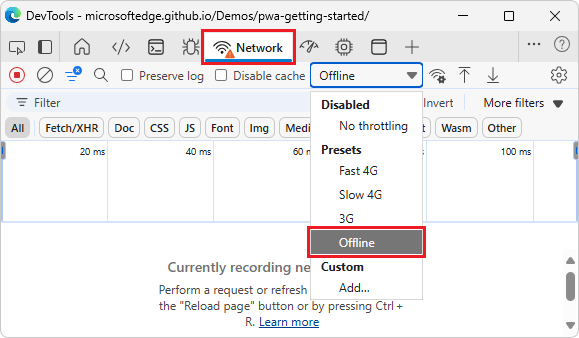
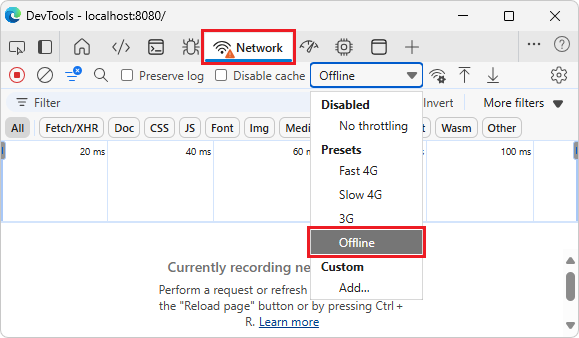
test/polish pass 3, thru Step 11

Changed region(s): [[0.1554, 0.0296, 0.6528, 0.0592]]

diff --git a/microsoft-edge/progressive-web-apps/samples/temperature-converter.md b/microsoft-edge/progressive-web-apps/samples/temperature-converter.md
@@ -27,32 +27,34 @@ To examine the user interface of the app:
 
    ![The PWA as a web app within the browser, served from github.io](./temperature-converter-images/preview-sample-at-github.png)
 
-   The sample Progressive Web App (PWA) is initially shown in the browser, as a web app, but also has an **App available** (![App available icon](./temperature-converter-images/app-available-icon.png)) button (don't click it yet).
+   The sample Progressive Web App (PWA) is initially shown in the browser, as a web app, but also has an **App available** (![App available icon](./temperature-converter-images/app-available-icon.png)) button in the Address bar (don't click it yet).
 
 1. In the **temperature** text box, type **22**.
 
    The displayed temperature changes to **71.6 F**.
 
-1. Click the **from** and **to** dropdown lists.
+1. Click the **from** dropdown list, and then click outside of it.
+
+1. Click the **to** dropdown list, and then click outside of it.
 
    Available units are:
    * **Celsius**
    * **Fahrenheit**
    * **Kelvin**
 
-   In a later step, after the sample Progressive Web App (PWA) is installed as a local app, the app runs in its own window:
-
-   ![The sample Progressive Web App (PWA), installed and running in its own window](./temperature-converter-images/sample-pwa-installed.png)
-
-   The window is a browser-based window, without most of the browser UI.  The local app is integrated into the device's UI, such as the Windows taskbar and Windows Start menu.
-
-   This instance of the sample app is hosted at `github.io`.  In the sections below, you use a local server instead, to show how to locally test a Progressive Web App (PWA) while developing it.
-
-   The sample is a Progressive Web App, rather than a regular web site.  Therefore, you can install the Progressive Web App (PWA) as an app on the device, and the app's window contains the same UI as within the full web browser.
-
 1. Close the tab that contains the live [Temperature converter](https://microsoftedge.github.io/Demos/temperature-converter/) sample web app.
 
-   In a later step, you'll access the web app from your local server (`localhost`) instead, and install it to your device from there.
+In a later step, after the sample Progressive Web App (PWA) is installed as a local app, the app runs in its own window:
+
+![The sample Progressive Web App (PWA), installed and running in its own window](./temperature-converter-images/sample-pwa-installed.png)
+
+The sample is a Progressive Web App, rather than a regular web site.  Therefore, you can install the Progressive Web App (PWA) as an app on the device, and the app's window contains the same UI as within the full web browser.
+
+The installed app's window is a browser-based window, without most of the browser UI.  The installed app is integrated into the device's UI, such as the Windows taskbar and Windows Start menu.
+
+The installed app's window supports Microsoft Edge DevTools (in an undocked window).  The app continues to work when you use DevTools to turn off the internet connection.
+
+This instance of the sample app is hosted at `github.io`.  In the sections below, you use a local server instead, to show how to locally test a Progressive Web App (PWA) while developing it.  You'll access the web app from your local server (`localhost`) instead, and install it to your device from there.
 
 
 <!-- ====================================================================== -->
@@ -80,7 +82,11 @@ Install or update git, as follows:
 
    If git is installed, a version number is displayed, such as `git version 2.51.0.windows.2`.
 
-1. If not done yet, download and install the latest version of git, from [Downloads](https://git-scm.com/downloads) at git-scm.com.
+1. Go to [Downloads](https://git-scm.com/downloads) at git-scm.com.
+
+   In the upper right, note the **Latest version** number, such as **2.51.1**.
+
+1. If git isn't installed yet, or you want to update it, download and install the latest version of git, from [Downloads](https://git-scm.com/downloads) at git-scm.com.  Otherwise, skip to the next section, below.
 
 1. During installation, you can accept the defaults, except it's recommended that you change the default editor from vim to Visual Studio Code:
 
@@ -104,9 +110,9 @@ Install or update Node.js, as follows:
 
 1. Go to [Node.js](https://nodejs.org).
 
-   Note the version number in the lower left **Latest LTS** button, such as v22.20.0.
+1. In the lower left, in the **Latest LTS** button, note the version number, such as v22.20.0.
 
-1. If you want to update Node.js, click the **Get Node.js** button.  Otherwise, skip to the next section, below.
+1. If Node.js isn't installed yet, or you want to update it, click the **Get Node.js** button.  Otherwise, skip to the next section, below.
 
    You end up at a page such as [Download Node.js](https://nodejs.org/download).
 
@@ -118,9 +124,7 @@ Install or update Node.js, as follows:
 
    The **Node.js Setup Wizard** window opens.
 
-1. Click the **Next** button, and follow the prompts.  You can accept the defaults, then click the **Install** button.
-
-1. Follow the prompts.
+1. Click the **Next** button, and follow the prompts.  You can accept the defaults, and then click the **Install** button.
 
    The **Node.js Setup Wizard** window closes.
 
@@ -135,7 +139,7 @@ Install or update Node.js, as follows:
 https://learn.microsoft.com/microsoft-edge/devtools/sample-code/sample-code#clone-the-edge-demos-repo-to-your-drive
 -->
 
-Next, you'll get a local copy of the sample code, by forking the Microsoft Edge / Demos repo.
+Next, you'll get a local copy of the sample code, by forking the Microsoft Edge / Demos repo.  Because you don't have permissions to directly push commits to the Demos open-source repo, you'll _fork_ the Demos repo to create your own copy of the repo, instead of _cloning_ the Demos repo.
 
 Fork the **MicrosoftEdge / Demos** repo, as follows:
 
@@ -149,9 +153,9 @@ Fork the **MicrosoftEdge / Demos** repo, as follows:
 
    `C:\Users\localAccount\GitHub\`
 
-1. See whether the `\Demos\` repo is listed.
+1. See whether the `\Demos\` repo is listed, such as `C:\Users\localAccount\GitHub\Demos`.
 
-   The following steps assume that the Demos repo hasn't been cloned yet.
+   If the Demos repo hasn't been cloned yet, continue with the following steps.  Otherwise, skip to the next section, below.
 
    **Fork the repo:**
 
@@ -159,7 +163,21 @@ Fork the **MicrosoftEdge / Demos** repo, as follows:
 
 1. In the upper right, click the down-arrow on the **Fork** button, and then select **Create a new fork**.
 
-   The URL is copied to the clipboard: `https://github.com/MicrosoftEdge/Demos.git`
+   For more information, see [Forking a repository](https://docs.github.com/pull-requests/collaborating-with-pull-requests/working-with-forks/fork-a-repo#forking-a-repository) in _Fork a repository_ in GitHub Docs.
+
+1. Click the **Create fork** button.
+
+   **Clone your fork to the local drive:**
+
+1. On GitHub, navigate to your fork of the **MicrosoftEdge / Demos** repository.
+
+1. Above the list of files, click the **Code** button.
+
+1. In the **HTTPS** tab, click the **Copy to clipboard** (![Copy to clipboard icon](./temperature-converter-images/copy-to-clipboard-icon.png)) button.
+
+   <!-- Or, to clone the repository using an SSH key, including a certificate issued by your organization's SSH certificate authority, click the **SSH** tab, and then click the **Copy to clipboard** (![Copy to clipboard icon](./temperature-converter-images/copy-to-clipboard-icon.png)) button. -->
+
+   <!-- Or, to clone a repository using GitHub command-line interface, click the **GitHub CLI** tab, and then click the **Copy to clipboard** (![Copy to clipboard icon](./temperature-converter-images/copy-to-clipboard-icon.png)) button. -->
 
 1. Open Visual Studio Code.
 
@@ -177,11 +195,17 @@ Fork the **MicrosoftEdge / Demos** repo, as follows:
    cd c:/users/localAccount/GitHub/
    ```
 
-1. Enter `git clone` followed by the copied URL for the Demos repo, and then press **Enter**:
+1. Type `git clone`, and then paste the URL you copied earlier.  It will look like this, with your GitHub username instead of YOUR-USERNAME:
 
    ```console
-   git clone https://github.com/MicrosoftEdge/Demos.git
+   git clone https://github.com/YOUR-USERNAME/Demos.git
    ```
+
+1. Press **Enter**.
+
+   Your local clone of the forked Demos repo is created.
+
+   For more information, see [Cloning your forked repository](https://docs.github.com/pull-requests/collaborating-with-pull-requests/working-with-forks/fork-a-repo#cloning-your-forked-repository) in _Fork a repository_ in GitHub Docs.
 
 1. In File Explorer, go to the new, `/Demos/` repo directory, such as:
 
@@ -192,7 +216,8 @@ Fork the **MicrosoftEdge / Demos** repo, as follows:
    Files are listed, such as `converter.js`.
 
 See also:
-* [Cloning a repository](https://docs.github.com/en/repositories/creating-and-managing-repositories/cloning-a-repository) - GitHub docs.
+* [Fork a repository](https://docs.github.com/pull-requests/collaborating-with-pull-requests/working-with-forks/fork-a-repo) - GitHub docs.
+* [Cloning a repository](https://docs.github.com/repositories/creating-and-managing-repositories/cloning-a-repository) - GitHub docs.
 
 
 <!-- ====================================================================== -->
@@ -204,14 +229,16 @@ While developing or testing a web site or app, including a PWA, you can use a lo
 
 Change to the `/temperature-converter/` directory of the cloned Demos repo, and start the `http-server` from there, as follows:
 
-1. In VS Code's terminal, change to the `\Demos\temperature-converter\` directory:
+1. Open Visual Studio Code.
+
+1. In the **View** menu, select **Terminal**.
+
+1. Change to the `\Demos\temperature-converter\` directory, such as `C:\users\localAccount\GitHub\Demos\temperature-converter\`, by entering commands such as:
 
    ```console
    cd Demos
    cd temperature-converter
    ```
-
-   You're now in a directory such as `C:\users\localAccount\GitHub\Demos\temperature-converter\`.
 
 1. In VS Code's terminal, enter the following command:
 
@@ -289,12 +316,13 @@ Install the sample Progressive Web App (PWA) from your localhost web server as a
 
 1. Close the **Temperature converter** app window.
 
-See also:
+<!-- See also:
 * [Installing a PWA](../ux.md#installing-a-pwa) in _Use PWAs in Microsoft Edge_.
+-->
 
 
 <!-- ====================================================================== -->
-## Step 8: Run the sample PWA as a local app
+## Step 8: Open the installed app
 
 Run the sample Progressive Web App (PWA) as a local app on the device.
 
@@ -309,6 +337,8 @@ Run the sample Progressive Web App (PWA) as a local app on the device.
    If you had installed the app from the `github.io` server, when you start the app, the right side of the title bar would instead display **microsoftedge.github.io** for a few seconds:
 
    ![The installed sample Progressive Web App (PWA) if installed from github.io server](./temperature-converter-images/installed-from-github-io.png)
+
+   You can also open the installed app by other ways that are supported by the device, such as the **Temperature convertor** (![The "Temperature convertor" icon in the Windows taskbar](./temperature-converter-images/icon-in-taskbar.png)) button pinned to the Windows taskbar.
 
 1. In the **temperature** text box, enter **22**.
 
@@ -333,7 +363,7 @@ Confirm that the service worker (`sw.js`) is running when you open the PWA as a 
 
 1. Right-click in the app window (below the title bar), and then select **Inspect**.
 
-   DevTools opens, in a separate window; undocked.  (Other docking options are dimmed and not available.)  The app window is a browser window, so supports the DevTools **Inspect** command, even though the app window doesn't have the UI which normally appears in a browser window.
+   DevTools opens, in a separate window; undocked.  (Other docking options are dimmed and not available.)  The app window is a browser window that includes the DevTools **Inspect** command.
 
 1. In DevTools, select the **Application** (![Application icon](./temperature-converter-images/application-tool-icon.png)) tool.
 
@@ -345,9 +375,9 @@ Confirm that the service worker (`sw.js`) is running when you open the PWA as a 
 
    The service worker's **Source** is `sw.js`, with **Status** of **activated and is running**.
 
-   If the service worker isn't displayed, right-click in the Temperature convertor window and then select **Refresh**.
+   If the service worker isn't displayed, right-click in the Temperature convertor window and then select **Refresh**.<!-- todo: omit paragraph?  did dev hit this issue? -->
 
-1. In the tree on the left, in the **Storage** section, expand **Cache storage**, and then select **temperature-converter-v1**:
+1. In the tree on the left, in the **Storage** major section, expand **Cache storage**, and then select **temperature-converter-v1**:
 
    ![Installed app: DevTools > Application tool > Cache storage, showing cached resources](./temperature-converter-images/devtools-cache-storage-installed-app.png)
 
@@ -368,7 +398,7 @@ Try the Progressive Web App (PWA) as an offline app, as follows:
  
 1. In the DevTools window, open the **Network** (![The Network icon](./temperature-converter-images/network-icon.png)) tool.
 
-1. Near the top, in the menu to the right of the **Disable cache** checkbox, change from **No throttling** to **Offline**:
+1. Near the top, in the **Throttling**<!-- no tooltip --> menu to the right of the **Disable cache** checkbox, change from **No throttling** to **Offline**:
 
    ![The DevTools window, showing where to switch the Throttling value to Offline](./temperature-converter-images/devtools-offline.png)
 
@@ -378,23 +408,31 @@ Try the Progressive Web App (PWA) as an offline app, as follows:
 
 1. In the **temperature** text box, type **22**.
 
-   The displayed temperature changes to **71.6 F**.  The app is still displayed correctly and still works correctly, by using locally cached resources that are served out by the service worker.
+   The displayed temperature changes to **71.6 F**.  The app is still displayed correctly and still works correctly, by using locally cached resources that are managed by the service worker.
 
-1. In the DevTools window, near the top, in the menu to the right of the **Disable cache** checkbox, change from **Offline** back to **No throttling**.
+1. In the DevTools window, in the **Throttling**<!-- no tooltip --> menu to the right of the **Disable cache** checkbox, change from **Offline** back to **No throttling**.
 
    The throttling warning icon is removed from the **Network** tab.
 
 1. Close the DevTools window.
 
+1. Close the **Temperature converter** app window.
+
+This same use of DevTools also works when the app is in Microsoft Edge as a web app, rather than an installed app.  For more information, see [Emulate offline](../../devtools/network/reference.md#emulate-offline) in _Network features reference_.
+
 
 <!-- ====================================================================== -->
-## Step 11: Uninstall the sample
+## Step 11: Uninstall the installed app
 
-Uninstall the sample as a local app on the device, by starting from the running **Temperature converter** window, as follows:
+Uninstall the Progressive Web App (PWA), as follows:
 
-1. In the running local app window, select **Settings and more** (**...**) > **App settings**.
+1. Click the **Temperature converter** button pinned on the Windows taskbar.
 
-   In Microsoft Edge, the **Apps** tab opens, displaying details about the **Temperature converter** app:
+   The installed **Temperature converter** app opens.
+
+1. In the title bar, click the **Settings and more** (![Settings and more icon on the dark blue title bar](./temperature-converter-images/settings-and-more-blue-icon.png)) button, and then click **App settings**.
+
+   In Microsoft Edge, the **Apps** tab opens (`edge://apps`), displaying details about the **Temperature converter** app:
 
    ![The Uninstall button in the Apps page of Microsoft Edge](./temperature-converter-images/uninstall-button.png)
 
@@ -406,22 +444,7 @@ Uninstall the sample as a local app on the device, by starting from the running 
 
 
 <!-- ------------------------------ -->
-#### Other ways to uninstall a PWA
-
-Note: As an alternative, you could uninstall the sample PWA by starting from Microsoft Edge, as follows:
-
-1. In Microsoft Edge, select **Settings and more** (**...**) > **More tools** > **Apps** > **View apps**.
-
-   The **Apps** dialog opens within Microsoft Edge:
-
-   ![Edge Settings > View apps listing the temperature converter](./temperature-converter-images/settings-view-apps.png)
-
-1. Right-click the **Temperature converter** card, and then click **Manage app**.
-
-   The **All apps / Temperature converter** page opens, at `edge://apps`.
-
-1. Scroll down, and then click the **Uninstall** button.
-
+#### Uninstalling a local app from the Windows Start menu
 
 Note: As an example of OS integration, you could uninstall the app via the Windows Start menu, as follows:
 
@@ -434,10 +457,30 @@ Note: As an example of OS integration, you could uninstall the app via the Windo
    ![Windows Start menu showing the Uninstall command for the app](./temperature-converter-images/uninstall-via-start-menu.png)
 
 
+<!-- ------------------------------ -->
+#### Uninstalling a local app by starting from Microsoft Edge
+
+Note: As an alternative, you could uninstall the sample Progressive Web App (PWA) by starting from Microsoft Edge, as follows:
+
+1. In Microsoft Edge, select **Settings and more** (**...**) > **More tools** > **Apps** > **View apps**.
+
+   The **Apps** dialog opens within Microsoft Edge, listing any installed PWAs:
+
+   ![Edge Settings > View apps listing the temperature converter](./temperature-converter-images/settings-view-apps.png)
+
+1. Right-click the **Temperature converter** card, and then click **Manage app**.
+
+   The **All apps / Temperature converter** page opens, at `edge://apps`.
+
+1. At the bottom, click the **Uninstall** button.
+
+Continue with the steps below.
+
+
 <!-- ====================================================================== -->
 ## Step 12: Modify the sample
 
-You can modify the sample as a starting point for your own Progressive Web App (PWA).  You'll change the name of the app from "Temperature converter" to "TC", in a working branch of the repo, and then install the modified app locally.
+You can modify the sample as a starting point for your own Progressive Web App (PWA).  You'll change the name of the app from "Temperature converter" to "TC", in a working branch of the repo, and then install the modified app locally.  TODO: resume here testing
 
 Create a working branch and switch to it, as follows:
 
